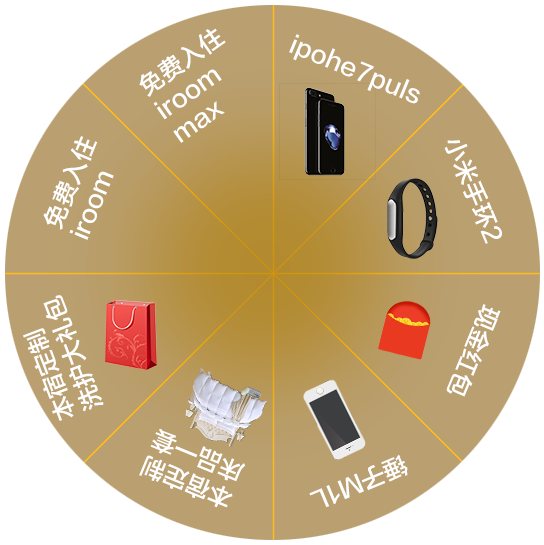
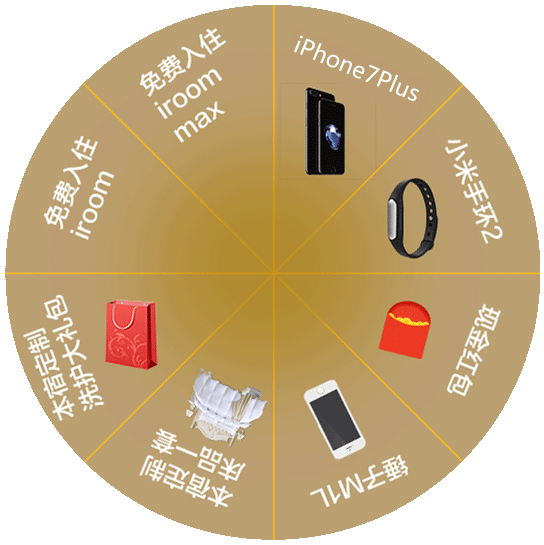
抽奖的图片暂时更正，预存改为动态

diff --git a/js/pages/card/introduce.html b/js/pages/card/introduce.html
@@ -77,11 +77,11 @@
                     <td class="introduce-table-grey">升级条件</td>
                     <td>注册</td>
                     <td>预存
-                        <br>3600元</td>
+                        <br>{{@data[2].amount}}元</td>
                     <td>预存
-                        <br>9600元</td>
+                        <br>{{@data[1].amount}}元</td>
                     <td>预存
-                        <br>27000元</td>
+                        <br>{{@data[0].amount}}元</td>
                 </tr>
                 <tr>
                     <td class="introduce-table-grey">预存款返还（12次/权益年）</td>
